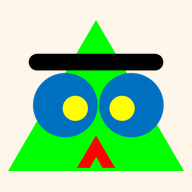
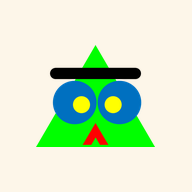
インストールバナー簡素化 + ワラエルアイコン切れ修正
- バナー文言を「ホーム画面に追加できます」+「アプリにする」だけに
- アイコンを62%サイズで再生成（丸マスクでも三角形が全部入る）
- アプリ内のワラエル表示も丸切り抜きをやめてobject-containに（お多福化解消）

diff --git a/src/components/InstallPrompt.tsx b/src/components/InstallPrompt.tsx
@@ -95,22 +95,17 @@ export function InstallPrompt() {
           <img
             src="/waraeru-archangel.png"
             alt=""
-            className="h-9 w-9 flex-shrink-0 rounded-xl object-cover"
+            className="h-9 w-9 flex-shrink-0 object-contain"
           />
-          <div className="min-w-0 flex-1">
-            <p className="text-[13px] font-extrabold leading-tight text-white">
-              アプリとして使えます
-            </p>
-            <p className="text-[10.5px] leading-tight text-white/85">
-              アドレスバーなしの全画面 + ホーム画面にアイコン
-            </p>
-          </div>
+          <p className="min-w-0 flex-1 text-[13px] font-extrabold leading-tight text-white">
+            ホーム画面に追加できます
+          </p>
           <button
             className="flex-shrink-0 rounded-full bg-white px-3 py-1.5 text-[12px] font-extrabold"
             style={{ color: "#c94d3a" }}
             onClick={install}
           >
-            {isIos ? "方法を見る" : "アプリにする"}
+            アプリにする
           </button>
           <button
             className="flex-shrink-0 px-1 text-[18px] text-white/70"

diff --git a/src/app/page.tsx b/src/app/page.tsx
@@ -75,7 +75,7 @@ export default function Home() {
               <img
                 src="/waraeru-archangel.png"
                 alt=""
-                className="h-8 w-8 flex-shrink-0 rounded-full object-cover"
+                className="h-8 w-8 flex-shrink-0 object-contain"
               />
               <span
                 className="whitespace-nowrap font-bold"
@@ -144,7 +144,7 @@ export default function Home() {
             <img
               src="/waraeru-archangel.png"
               alt=""
-              className="h-9 w-9 flex-shrink-0 rounded-full object-cover"
+              className="h-9 w-9 flex-shrink-0 object-contain"
             />
             <div className="min-w-0 flex-1">
               <div className="text-[15px] font-extrabold leading-tight text-white">

diff --git a/src/app/u/[id]/page.tsx b/src/app/u/[id]/page.tsx
@@ -249,7 +249,7 @@ export default function UserPage({ params }: { params: Promise<{ id: string }> }
                         style={{ background: "linear-gradient(135deg,#c94d3a 0%,#d4a043 50%,#5a7d4a 100%)" }}
                       >
                         {/* eslint-disable-next-line @next/next/no-img-element */}
-                        <img src="/waraeru-archangel.png" alt="" className="h-12 w-12 rounded-full object-cover opacity-90" />
+                        <img src="/waraeru-archangel.png" alt="" className="h-12 w-12 object-contain opacity-90" />
                       </div>
                     )}
                     {o.status === "done" && (

diff --git a/src/app/voice/page.tsx b/src/app/voice/page.tsx
@@ -20,7 +20,7 @@ export default function VoicePage() {
             ←
           </Link>
           {/* eslint-disable-next-line @next/next/no-img-element */}
-          <img src="/waraeru-archangel.png" alt="" className="h-8 w-8 rounded-full object-cover" />
+          <img src="/waraeru-archangel.png" alt="" className="h-8 w-8 object-contain" />
           <div className="min-w-0">
             <h1 className="truncate text-[16px] font-bold leading-tight" style={{ color: "#c94d3a" }}>
               現地からの声
